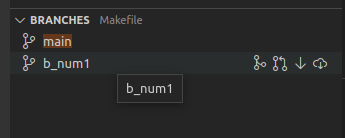
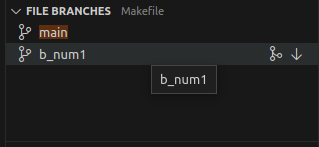
clear WORKSPACE BRANCHES when changing folders

diff --git a/src/branchesController.ts b/src/branchesController.ts
@@ -82,6 +82,10 @@ export class BranchesController extends Controller {
 
                 const name = basename(newWorkspace.fsPath);
 
+                // first clear contents
+                this._branchesProvider.refresh(undefined);
+
+                // now update view
                 this._branchesProvider.refresh(newWorkspace);
                 this._branchesTree.description = name;
                 this._branchesTree.message = '';

diff --git a/src/extension.ts b/src/extension.ts
@@ -432,7 +432,7 @@ export function activate(context: vscode.ExtensionContext) {
 				branchesController.switchingBranches(branchData.branchName);
 				
 				vscode.window.withProgress({
-					location: vscode.ProgressLocation.Window,
+					location: vscode.ProgressLocation.SourceControl,
 					cancellable: false,
 					title: `Switching to branch: ${branchData.branchName}`
 				}, async (progess) => {

diff --git a/README.md b/README.md
@@ -17,6 +17,8 @@ The extension will automatically activate when it detects source code managed by
 - Discard local changes and revert to the repository revision.
 - View diffs between locally modified file and repository revision.
 - Display branch and revision number of file opened in active editor.
+- Display branches in workspace folders.
+- Merge Branches.
 
 ## Source Control States
 
@@ -81,18 +83,28 @@ The view provides the following commands:
  - Compare changes between contiguous revisions.
  - Revert a file's contents with a a older revision.
 
-### Branches
+### File Branches
 
-The Branches tree view is `defaulted to disabled` (off). The view displays the branches associated with the file in the active editor. 
+The File Branches tree view is `defaulted to disabled` (off). The view displays the branches associated with the file in the active editor. 
 
 <img src="resources/images/fileBranches.png" alt="CVS Settings" width="300"/>
 
 The view provides the following commands:
- - Compare the file in the active editor with a branch.
+ - Compare the file with the branch version.
+ - Switch file to the branch version.
+ - Merge file with the branch version.
+
+### Workspace Branches
+
+The Workspace Branches tree view is `defaulted to disabled` (off). The view displays the branches associated with the active workspace folder. 
+
+<img src="resources/images/fileBranches.png" alt="CVS Settings" width="300"/>
+
+The view provides the following commands:
+ - Add a new branch.
+ - Compare the active branch with a branch. Results displayed in the `COMPARE BRANCHES` view.
  - Switch the workspace to a branch.
- - Switch a file to a branch.
  - Merge the workspace with a branch.
- - Merge a file with a branch.
 
 ### Logging
 

diff --git a/CHANGELOG.md b/CHANGELOG.md
@@ -3,6 +3,9 @@
 All notable changes to the `cvs-scm` extension will be documented in this file.
 ile.
 
+## [v1.11.11]
+- Pre-release version.
+- Clear the `WORKSPACE BRANCHES` view when changing workspace folders.
 ## [v1.11.10]
 - Pre-release version.
 - Update `WORKSPACE BRANCHES` view after switching branches.
